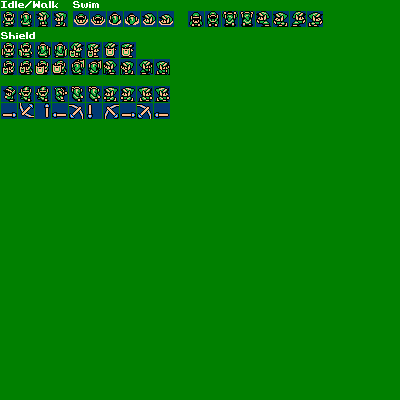
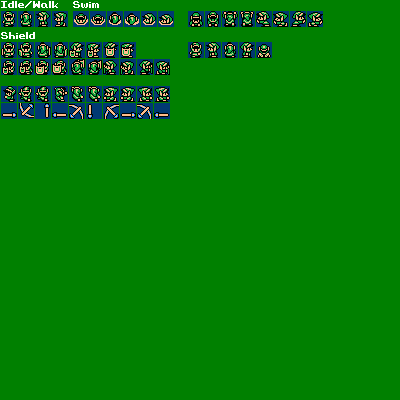
animaton kinda works staring on gameover state

Changed region(s): [[0.45, 0.09, 0.69, 0.15]]

diff --git a/src/GameStates/GameRunningState.cpp b/src/GameStates/GameRunningState.cpp
@@ -2,7 +2,7 @@
 
 GameRunningState::GameRunningState(sf::RenderWindow* window, Board&& board, sf::View&& view, sf::Sprite background)
 	:State(window), m_board(std::move(board)), m_view(std::move(view)), m_background(background),
-	m_statusBar(board.getSprite().getHp())
+	m_statusBar(board.getLink().getHp())
 {
 	setCenterView();
 }
@@ -17,13 +17,13 @@ void GameRunningState::update(const sf::Time& deltaTime)
 	{
 		updateState(GAME_STATE::PAUSE_MENU);
 	}
-	m_statusBar.update(m_board.getSprite().getHp());
+	m_statusBar.update(m_board.getLink().getHp());
 
-	if (m_board.getSprite().getHp() <= 0)
+	if (m_board.getLink().getHp() <= 0)
 	{
 		SoundResource::getSound().stopBackground(BACKGROUND_SOUND::StartGame);
 		SoundResource::getSound().playBackground(BACKGROUND_SOUND::Menu);
-		updateState(GAME_STATE::MAIN_MENU);
+		updateState(GAME_STATE::DEATH);
 	}
 
 	if (m_board.isAttacking())
@@ -66,6 +66,8 @@ std::unique_ptr<State> GameRunningState::handleInput(GAME_STATE gameState)
 		return nullptr;
 	case GAME_STATE::PAUSE_MENU:
 		return std::make_unique<PauseMenu>(getWindow(), std::move(m_board), std::move(m_view), m_background);
+	case GAME_STATE::DEATH:
+		return std::make_unique<DeathState>(getWindow(), m_board.getLink().getPosition());
 	}
 	return nullptr;
 }
@@ -82,7 +84,7 @@ void GameRunningState::setCenterView()
 	const float halfViewWidth = viewWidth / 2.f;
 	const float halfViewHeight = viewHeight / 2.f;
 
-	sf::Vector2f playerPos = m_board.getSprite().getPosition();
+	sf::Vector2f playerPos = m_board.getLink().getPosition();
 
 	float viewCenterX = std::max(halfViewWidth, std::min(playerPos.x, Resources::getResource().getTexture(TEXTURE::Map)->getSize().x - halfViewWidth));
 	float viewCenterY = std::max(halfViewHeight, std::min(playerPos.y, Resources::getResource().getTexture(TEXTURE::Map)->getSize().y - halfViewHeight));

diff --git a/src/GameStates/DeathState.cpp b/src/GameStates/DeathState.cpp
@@ -1,0 +1,60 @@
+#include "DeathState.h"
+
+#include <iostream> //debugging
+
+DeathState::DeathState(sf::RenderWindow* window, sf::Vector2f position)
+	:State(window), m_linkDeathSprite(), m_whiteBackground(sf::Vector2f(window->getSize().x, window->getSize().y)),
+	m_amountOfSpins(0)
+{
+	m_linkDeathSprite.setTexture(*Resources::getResource().getTexture(TEXTURE::Link));
+	m_linkDeathSprite.setPosition(position);
+	m_animation.setAnimation(sf::Vector2u(188, 42), 4, false, true, 0.3f);
+	m_linkDeathSprite.setTextureRect(m_animation.getuvRect());
+	m_linkDeathSprite.setScale(4, 4);
+}
+
+void DeathState::update(const sf::Time& deltaTime)
+{
+	if (m_animation.isDone() && m_amountOfSpins < 3)
+	{
+		m_animation.setAnimation(sf::Vector2u(188, 42), 4, false, true, 1.f);
+		m_amountOfSpins++;
+		std::cout << m_amountOfSpins << std::endl;
+	}
+
+
+	m_animation.update(deltaTime);
+	m_linkDeathSprite.setTextureRect(m_animation.getuvRect());
+	m_linkDeathSprite.setScale(4, 4);
+
+	if (m_amountOfSpins >= 3)
+	{
+		updateState(GAME_STATE::MAIN_MENU);
+	}
+}
+
+void DeathState::render(sf::RenderTarget* target)
+{
+	if (!target)
+	{
+		target = getWindow();
+	}
+	target->draw(m_whiteBackground);
+	target->draw(m_linkDeathSprite);
+}
+
+std::unique_ptr<State> DeathState::handleInput(GAME_STATE gameState)
+{
+	switch (gameState)
+	{
+	case GAME_OVER:
+		return std::make_unique<GameOver>(getWindow());
+	}
+	return nullptr;
+}
+
+void DeathState::buttonPressed(sf::RenderWindow& window, const sf::Event& event)
+{
+
+}
+

diff --git a/src/GameStates/GameOverState.cpp b/src/GameStates/GameOverState.cpp
@@ -1,0 +1,44 @@
+#include "GameOverState.h"
+
+GameOverState::GameOverState(sf::RenderWindow* window)
+	: State(window)
+{
+}
+
+void GameOverState::update(const sf::Time&)
+{
+}
+
+void GameOverState::render(sf::RenderTarget* target)
+{
+	//add background image of game over
+	if (!target)
+	{
+		target = getWindow();
+	}
+	for (auto& option : m_options)
+	{
+		option.second->draw(window);
+	}
+}
+
+std::unique_ptr<State> GameOverState::handleInput(GAME_STATE)
+{
+	return nullptr;
+}
+
+void GameOverState::buttonPressed(sf::RenderWindow& window, const sf::Event& event)
+{
+	for (auto& option : m_options)
+	{
+		if (option.second->isButtonPressed(window, event.mouseButton))
+		{
+			option.second->execute();
+		}
+	}
+}
+
+void GameOverState::add(const std::string& str, std::unique_ptr<Button> c)
+{
+	m_options.emplace_back(std::make_pair(str, std::move(c));)
+}

diff --git a/include/GameStates/GameOverState.h b/include/GameStates/GameOverState.h
@@ -1,0 +1,23 @@
+#pragma once
+
+#include "State.h"
+#include "ExitButton.h"
+#include "LoadButton.h"
+
+using Option = std::pair<std::string, std::unique_ptr<Button>>;
+
+class GameOverState : public State
+{
+public:
+	GameOverState(sf::RenderWindow*);
+
+	virtual void update(const sf::Time&) override;
+	virtual void render(sf::RenderTarget* = nullptr) override;
+	virtual std::unique_ptr<State> handleInput(GAME_STATE) override;
+	virtual void buttonPressed(sf::RenderWindow&, const sf::Event&) override;
+
+private:
+	void add(const std::string&, std::unique_ptr<Button>);
+
+	std::vector<Option> m_options;
+};

diff --git a/include/GameStates/DeathState.h b/include/GameStates/DeathState.h
@@ -1,0 +1,25 @@
+#pragma once
+
+#include "State.h"
+#include "Resources.h"
+#include "Animation.h"
+#include "GameOverState.h"
+
+class DeathState : public State
+{
+public:
+	DeathState(sf::RenderWindow*, sf::Vector2f);
+
+	virtual void update(const sf::Time&) override;
+	virtual void render(sf::RenderTarget* = nullptr) override;
+	virtual std::unique_ptr<State> handleInput(GAME_STATE) override;
+	virtual void buttonPressed(sf::RenderWindow&, const sf::Event&) override;
+
+private:
+	sf::RectangleShape m_whiteBackground;
+	sf::Sprite m_linkDeathSprite;
+
+	int m_amountOfSpins;
+
+	Animation m_animation;
+};

diff --git a/src/GameStates/PauseMenu.cpp b/src/GameStates/PauseMenu.cpp
@@ -81,7 +81,7 @@ void PauseMenu::setCenterView()
 	const float halfViewWidth = viewWidth / 2.f;
 	const float halfViewHeight = viewHeight / 2.f;
 
-	sf::Vector2f playerPos = m_board.getSprite().getPosition();
+	sf::Vector2f playerPos = m_board.getLink().getPosition();
 
 	float viewCenterX = std::max(halfViewWidth, std::min(playerPos.x, Resources::getResource().getTexture(TEXTURE::Map)->getSize().x - halfViewWidth));
 	float viewCenterY = std::max(halfViewHeight, std::min(playerPos.y, Resources::getResource().getTexture(TEXTURE::Map)->getSize().y - halfViewHeight));

diff --git a/src/GameStates/NewGameState.cpp b/src/GameStates/NewGameState.cpp
@@ -7,7 +7,7 @@ NewGameState::NewGameState(sf::RenderWindow* window)
 	m_board.setMap();
 	m_board.makeLink();
 
-	m_view.setCenter(m_board.getSprite().getPosition()); //think about a better way to get link position.
+	m_view.setCenter(m_board.getLink().getPosition()); //think about a better way to get link position.
 
 	SoundResource::getSound().playBackground(BACKGROUND_SOUND::StartGame);
 }

diff --git a/include/Misc/Utilities.h b/include/Misc/Utilities.h
@@ -14,9 +14,10 @@ enum GAME_STATE {
 	EXIT,
 	LOAD_GAME,
 	GAME_RUNNING,
-	ENDGAME,
 	SETTINGS,
-	PAUSE_MENU
+	PAUSE_MENU,
+	DEATH,
+	GAME_OVER
 };
 
 //might want to map each direction to a sf::Vector2i with a map for easy accesing to direction vector

diff --git a/src/Misc/Animation.cpp b/src/Misc/Animation.cpp
@@ -85,5 +85,5 @@ sf::IntRect Animation::getuvRect()const{
 }
 
 bool Animation::isDone()const{
-    return m_singleTime && m_currentImage >= m_imageCount;
+    return m_singleTime && m_currentImage >= m_imageCount - 1;
 }

diff --git a/include/Board.h b/include/Board.h
@@ -34,7 +34,7 @@ public:
 	void setMap();
 
 	//temp get
-	const Link& getSprite() const { return *m_link; }
+	const Link& getLink() const { return *m_link; }
 
 	bool isAttacking() const;
 

diff --git a/include/GameStates/GameRunningState.h b/include/GameStates/GameRunningState.h
@@ -5,6 +5,7 @@
 #include "Board.h"
 #include "PauseMenu.h"
 #include "StatusBar.h"
+#include "DeathState.h"
 
 class GameRunningState : public State
 {

diff --git a/src/MovingObjects/LinkAndStates/Link.cpp b/src/MovingObjects/LinkAndStates/Link.cpp
@@ -16,7 +16,6 @@ Link::Link(const sf::Texture& texture, const sf::Vector2f& position)
     setHp(6);
 }
 
-
 void Link::handleCollision()
 {
 
